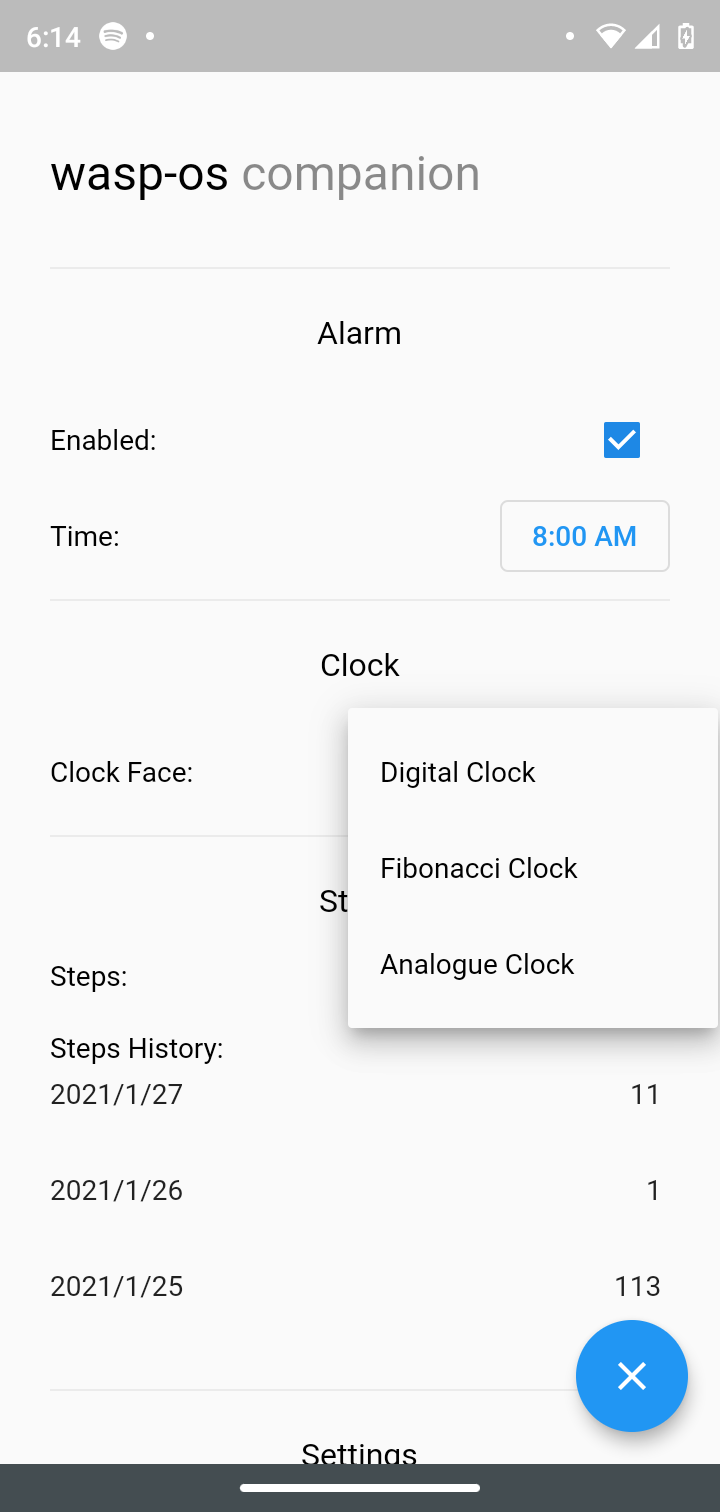
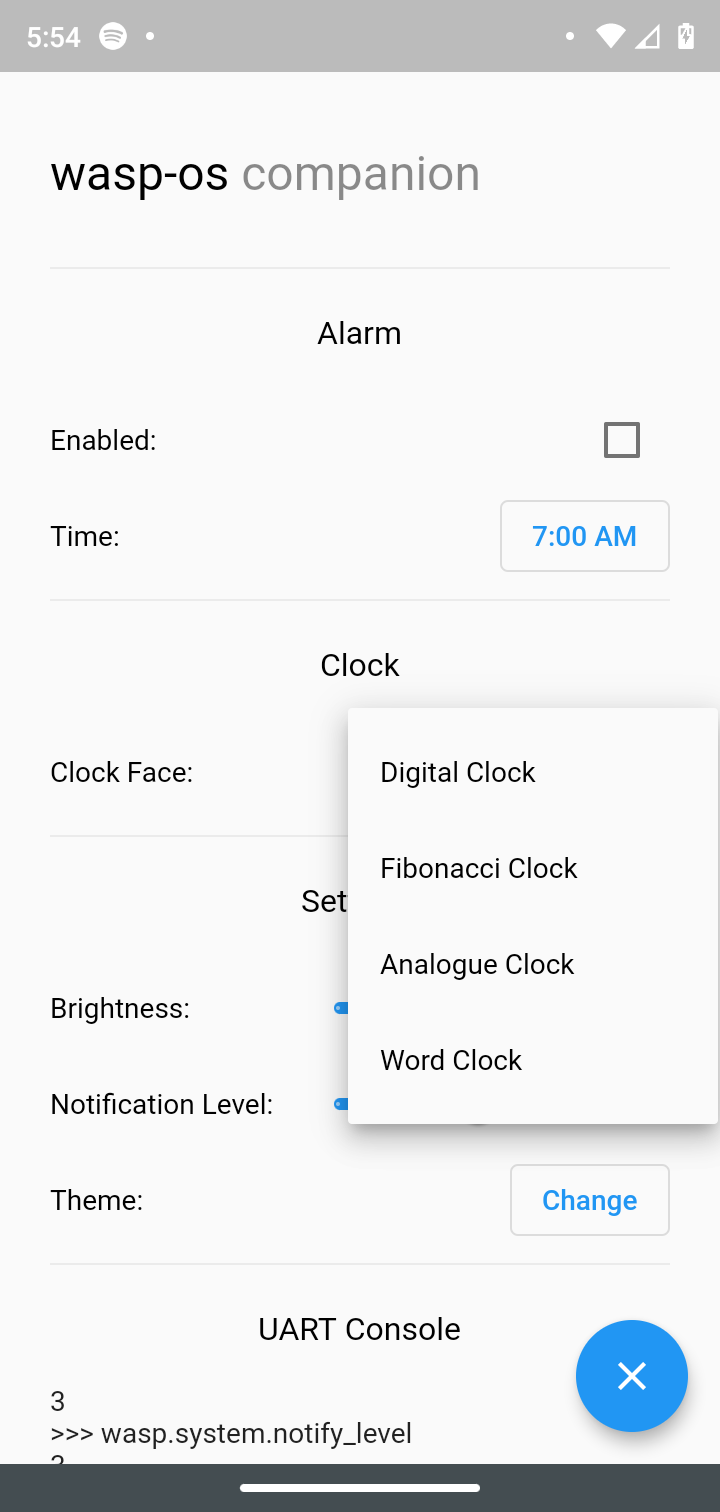
Updated screenshots.
- Updated clock face image to include the new word clock.

- Added a picture of the theme picker.

diff --git a/README.md b/README.md
@@ -37,7 +37,7 @@ I only have a P8 smartwatch, so I haven't tested with PineTime or K9. Please mak
 
 ## Screenshots
            
-<img src=".screenshots/Home.png" width="240" height="504"> <img src=".screenshots/Alarm_and_Clock_and_Steps.png" width="240" height="504"> <img src=".screenshots/UART_Console_and_Settings.png" width="240" height="504"> <img src=".screenshots/Alarm_Time_Picker.png" width="240" height="504"> <img src=".screenshots/Clock_Picker.png" width="240" height="504"> <img src=".screenshots/UART_Demo.png" width="240" height="504">
+<img src=".screenshots/Home.png" width="240" height="504"> <img src=".screenshots/Alarm_and_Clock_and_Steps.png" width="240" height="504"> <img src=".screenshots/UART_Console_and_Settings.png" width="240" height="504"> <img src=".screenshots/Alarm_Time_Picker.png" width="240" height="504"> <img src=".screenshots/Clock_Picker.png" width="240" height="504"> <img src=".screenshots/Theme_Picker.png" width="240" height="504"> <img src=".screenshots/UART_Demo.png" width="240" height="504">
 
 
 
